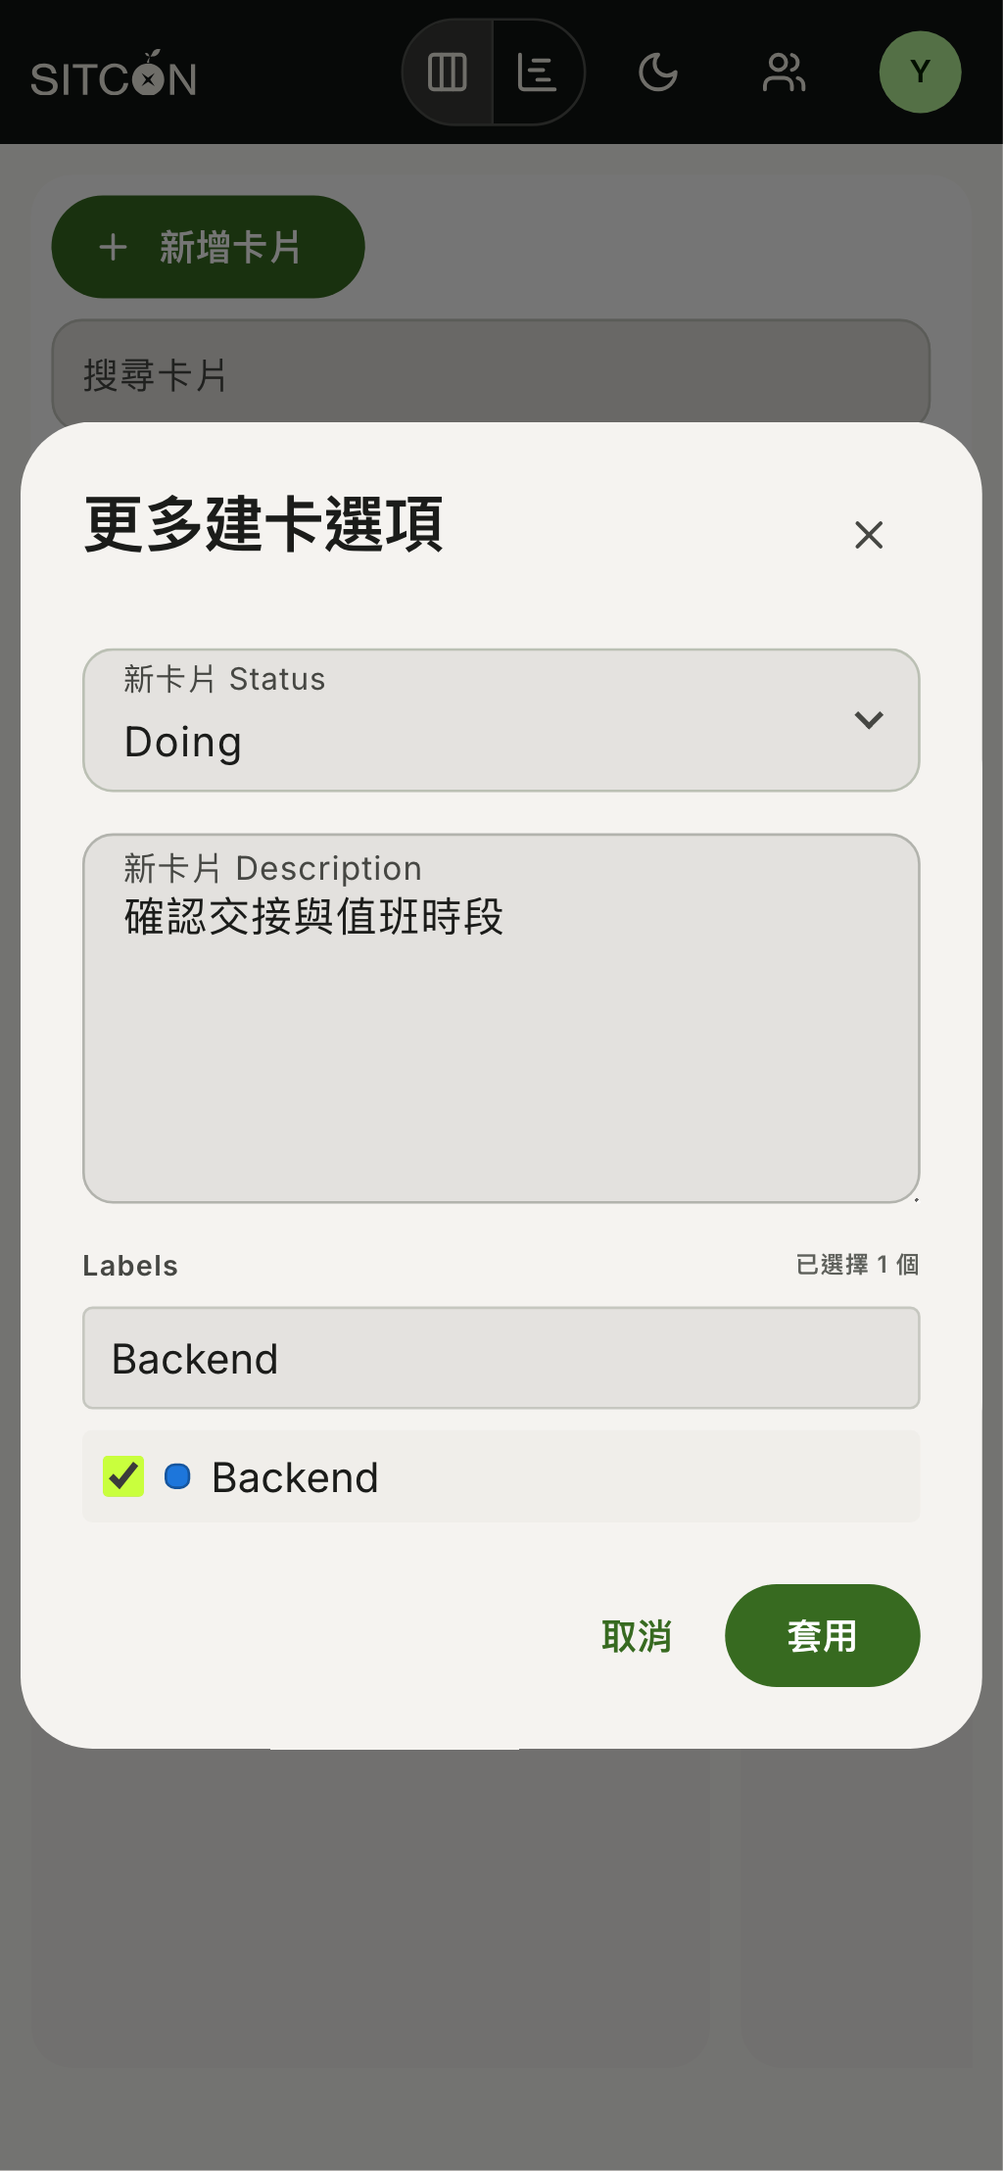
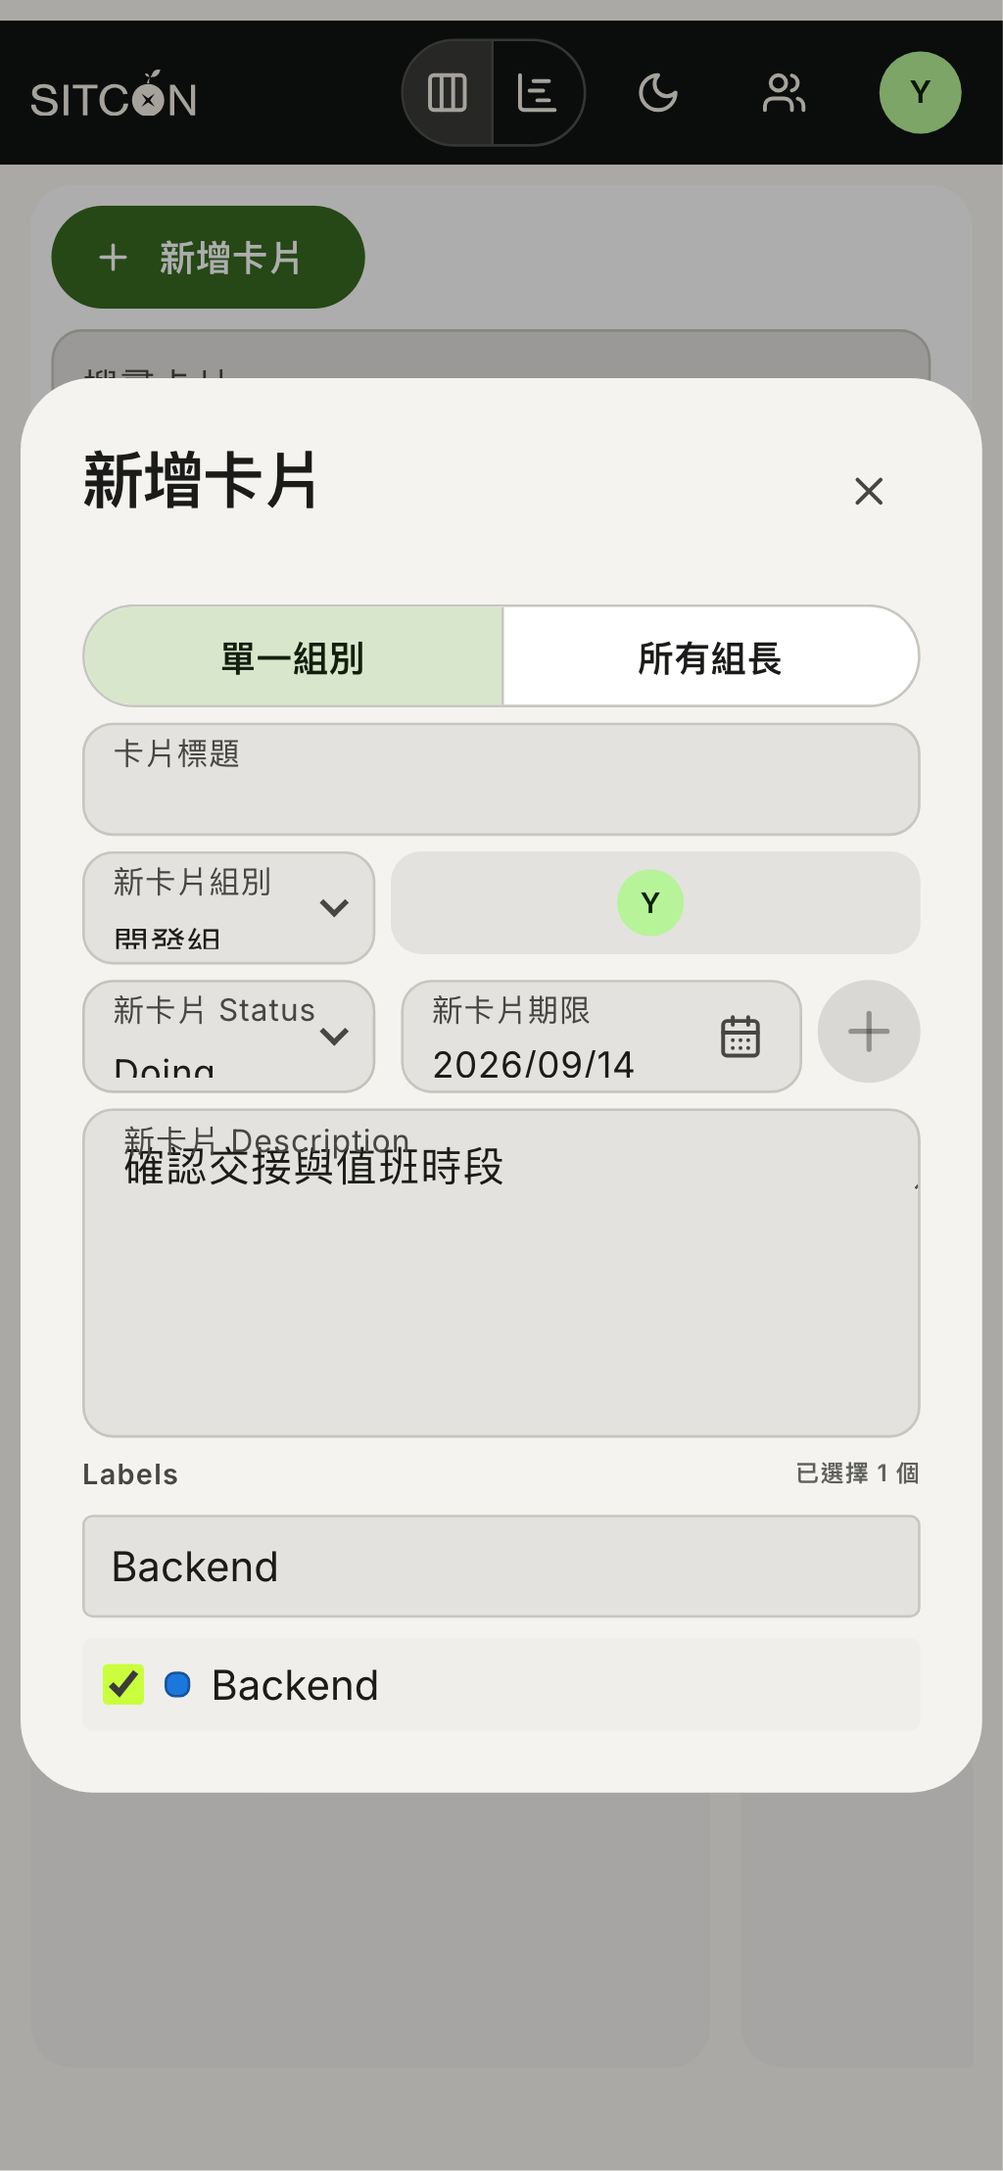
web/board: fix date layout and popup selection

diff --git a/web/e2e/board-demo.spec.ts b/web/e2e/board-demo.spec.ts
@@ -67,6 +67,18 @@ async function openDesktopFilter(page: Page, label: string) {
 	return { input, picker: page.locator(`[id="${panelId}"]`) };
 }
 
+async function expectPointerHitTarget(locator: Locator) {
+	await expect
+		.poll(() =>
+			locator.evaluate((element) => {
+				const rect = element.getBoundingClientRect();
+				const hit = document.elementFromPoint(rect.left + rect.width / 2, rect.top + rect.height / 2);
+				return hit !== null && element.contains(hit);
+			})
+		)
+		.toBe(true);
+}
+
 test.describe("SITCON Board demo visual audit", () => {
 	test.skip(!demoEnabled, "requires the explicit VITE_SITCON_DEMO server");
 
@@ -616,6 +628,75 @@ test.describe("SITCON Board demo visual audit", () => {
 		await expect(page.getByRole("dialog", { name: "新卡片詳細資料" }).getByText("Backend")).toBeVisible();
 	});
 
+	test("portalled controls stay interactive inside dialogs and drawers", async ({ page }, testInfo) => {
+		const mobile = testInfo.project.name === "mobile";
+		await page.clock.setFixedTime(new Date("2026-08-31T04:00:00Z"));
+		await page.addInitScript(() => localStorage.setItem("sitcon-board-theme", "dark"));
+		await page.setViewportSize(mobile ? { width: 320, height: 720 } : { width: 688, height: 900 });
+		await page.goto("/");
+
+		await page.getByRole("button", { name: "新增卡片" }).click();
+		const createDialog = page.getByRole("dialog", { name: "新增卡片" });
+		const dueInput = createDialog.getByRole("textbox", { name: "新卡片期限", exact: true });
+		const dateGeometry = await dueInput.evaluate((input) => {
+			const root = input.closest<HTMLElement>(".md-date-field")!;
+			return { rootWidth: root.getBoundingClientRect().width, inputWidth: input.getBoundingClientRect().width };
+		});
+		expect(dateGeometry.rootWidth).toBeGreaterThanOrEqual(mobile ? 120 : 180);
+		expect(dateGeometry.inputWidth).toBeGreaterThanOrEqual(mobile ? 80 : 130);
+
+		await chooseSelectField(page, createDialog, "新卡片 Status", "Doing");
+		await expect(createDialog.getByRole("button", { name: "新卡片 Status", exact: true })).toHaveText("Doing");
+		await expect(createDialog).toBeVisible();
+
+		const createDateTrigger = createDialog.getByRole("button", { name: "開啟新卡片期限日曆" });
+		if (mobile) await createDateTrigger.tap();
+		else await createDateTrigger.click();
+		const createPicker = page.locator(mobile ? ".md-date-picker--dialog" : ".md-date-picker--popover");
+		const createDate = createPicker.locator('[data-date="2026-09-01"]');
+		await expect(createPicker).toBeVisible();
+		await expectPointerHitTarget(createDate);
+		if (mobile) await createDate.tap();
+		else await createDate.click();
+		await expect(dueInput).toHaveValue("2026/09/01");
+		await expect(createPicker).toHaveCount(0);
+		await expect(createDialog).toBeVisible();
+
+		await createDialog.getByRole("button", { name: "選擇新卡片 Assignee" }).click();
+		const assigneeDialog = page.getByRole("dialog", { name: "選擇 Assignee" });
+		await assigneeDialog.getByRole("checkbox", { name: /沈明軒/ }).click();
+		await expect(assigneeDialog).toBeVisible();
+		await assigneeDialog.getByRole("button", { name: "完成" }).click();
+		await expect(assigneeDialog).toHaveCount(0);
+		await expect(createDialog).toBeVisible();
+		if (!mobile) await page.screenshot({ path: "../docs/assets/sitcon-board-quick-create-more-dark-desktop.png", fullPage: true });
+
+		await createDialog.getByRole("button", { name: "Close dialog" }).click();
+		await page.getByRole("heading", { name: "[開發組] 修正報名系統寄信流程" }).click();
+		const details = page.getByRole("dialog", { name: "#127 卡片詳細資料" });
+		const startInput = details.getByRole("textbox", { name: "Start", exact: true });
+		const detailDateTrigger = details.getByRole("button", { name: "開啟Start日曆" });
+		if (mobile) await detailDateTrigger.tap();
+		else await detailDateTrigger.click();
+		const detailPicker = page.locator(mobile ? ".md-date-picker--dialog" : ".md-date-picker--popover");
+		const detailDate = detailPicker.locator('[data-date="2026-09-02"]');
+		await expectPointerHitTarget(detailDate);
+		if (mobile) await detailDate.tap();
+		else await detailDate.click();
+		await expect(startInput).toHaveValue("2026/09/02");
+		await expect(details).toBeVisible();
+
+		await details.getByRole("button", { name: "編輯" }).click();
+		const description = details.getByRole("combobox", { name: "描述", exact: true });
+		await description.fill("/");
+		const autocomplete = page.getByRole("listbox", { name: "GitLab autocomplete" });
+		const suggestion = autocomplete.getByRole("option", { name: /\/close/ });
+		await expectPointerHitTarget(suggestion);
+		await suggestion.click();
+		await expect(description).toHaveValue("/close");
+		await expect(details).toBeVisible();
+	});
+
 	test("member drawer and assignee dialog are complete", async ({ page }) => {
 		await page.setViewportSize({ width: 390, height: 844 });
 		await page.goto("/");
@@ -640,13 +721,13 @@ test.describe("SITCON Board demo visual audit", () => {
 		const details = page.getByRole("dialog", { name: "#127 卡片詳細資料" });
 		await expect(details.getByRole("button", { name: "組別", exact: true })).toHaveText("開發組");
 		await expect(details.getByRole("button", { name: "狀態", exact: true })).toHaveText("To do");
-		await expect(details.getByLabel("Start")).toHaveValue("2026/07/17");
-		await expect(details.getByLabel("Due")).toHaveValue("2026/07/21");
+		await expect(details.getByRole("textbox", { name: "Start", exact: true })).toHaveValue("2026/07/17");
+		await expect(details.getByRole("textbox", { name: "Due", exact: true })).toHaveValue("2026/07/21");
 		await expect(details.getByText("Team::開發組")).toBeVisible();
 		await expect(details.getByText("Priority::High")).toBeVisible();
 		await expect(details.getByLabel("描述預覽")).toBeVisible();
 		await details.getByRole("button", { name: "編輯" }).click();
-		await details.getByRole("textbox", { name: "描述" }).fill("## 驗收條件\n\n- [ ] 補齊測試\n\n[規格](https://example.com/spec)");
+		await details.getByRole("combobox", { name: "描述", exact: true }).fill("## 驗收條件\n\n- [ ] 補齊測試\n\n[規格](https://example.com/spec)");
 		await details.getByRole("button", { name: "預覽" }).click();
 		await expect(details.getByRole("heading", { name: "驗收條件" })).toBeVisible();
 		await page.screenshot({ path: "../docs/assets/sitcon-board-details.png", fullPage: true });
@@ -659,12 +740,12 @@ test.describe("SITCON Board demo visual audit", () => {
 		// The demo title-change note carries GitLab's inline-diff HTML and must
 		// render as text, not markup.
 		await expect(details.getByText("[開發組]", { exact: true })).toBeVisible();
-		await details.getByRole("textbox", { name: "Comment" }).fill("測試與監控紀錄已補齊。");
+		await details.getByRole("combobox", { name: "Comment", exact: true }).fill("測試與監控紀錄已補齊。");
 		await details.getByRole("button", { name: "送出 Comment" }).click();
 		await expect(details.getByText("測試與監控紀錄已補齊。")).toBeVisible();
 		await details.getByRole("heading", { name: "Comment" }).scrollIntoViewIfNeeded();
 		await page.screenshot({ path: "../docs/assets/sitcon-board-tags-comments.png", fullPage: true });
-		await details.getByRole("button", { name: "儲存細節" }).click();
+		await details.getByRole("button", { name: "儲存", exact: true }).click();
 		await expect(details).toBeVisible();
 	});
 
@@ -675,18 +756,18 @@ test.describe("SITCON Board demo visual audit", () => {
 
 		const details = page.getByRole("dialog", { name: "#129 卡片詳細資料" });
 		await expect(details.getByLabel("標題")).toBeVisible();
-		await expect(details.getByRole("textbox", { name: "描述" })).toBeVisible();
-		const startDate = details.getByLabel("Start");
+		await expect(details.getByRole("combobox", { name: "描述", exact: true })).toBeVisible();
+		const startDate = details.getByRole("textbox", { name: "Start", exact: true });
 		await startDate.scrollIntoViewIfNeeded();
 		await expect(startDate).toBeInViewport();
 		await expect(startDate).toHaveValue("");
-		await expect(details.getByLabel("Due")).toHaveValue("2026/07/25");
+		await expect(details.getByRole("textbox", { name: "Due", exact: true })).toHaveValue("2026/07/25");
 		await details.getByRole("heading", { name: "Labels" }).scrollIntoViewIfNeeded();
 		await expect(details.getByLabel("新增 Label")).toBeVisible();
-		await details.getByRole("textbox", { name: "Comment" }).scrollIntoViewIfNeeded();
-		await expect(details.getByRole("textbox", { name: "Comment" })).toBeInViewport();
+		await details.getByRole("combobox", { name: "Comment", exact: true }).scrollIntoViewIfNeeded();
+		await expect(details.getByRole("combobox", { name: "Comment", exact: true })).toBeInViewport();
 		await page.screenshot({ path: "../docs/assets/sitcon-board-tags-comments-mobile.png", fullPage: true });
-		await expect(details.getByRole("button", { name: "儲存細節" })).toBeVisible();
+		await expect(details.getByRole("button", { name: "儲存", exact: true })).toHaveCount(0);
 		await page.screenshot({ path: "../docs/assets/sitcon-board-details-mobile.png", fullPage: true });
 	});
 

diff --git a/packages/ui/src/components/DateField.test.tsx b/packages/ui/src/components/DateField.test.tsx
@@ -28,6 +28,26 @@ function ControlledDateField({ onChange = () => undefined, ...props }: Partial<D
 	);
 }
 
+function DrawerFieldsHarness() {
+	const [open, setOpen] = useState(true);
+	const [status, setStatus] = useState("todo");
+	const [due, setDue] = useState<string | null>("2026-08-29");
+	return (
+		<Drawer open={open} onOpenChange={setOpen} title="Details">
+			<SelectField
+				label="Status"
+				value={status}
+				onValueChange={setStatus}
+				options={[
+					{ value: "todo", label: "To do" },
+					{ value: "doing", label: "Doing" }
+				]}
+			/>
+			<DateField label="Due" value={due} onValueChange={setDue} {...range} />
+		</Drawer>
+	);
+}
+
 describe("DateField", () => {
 	it("accepts compact, slash, and ISO typing while emitting canonical dates", async () => {
 		const user = userEvent.setup();
@@ -129,6 +149,13 @@ describe("DateField", () => {
 		expect(await screen.findByRole("dialog", { name: "期限日期選擇器" })).toHaveClass("md-date-picker--dialog");
 	});
 
+	it("places consumer layout classes on the component root", () => {
+		render(<DateField className="consumer-layout" label="Due" value="2026-08-29" onValueChange={() => undefined} {...range} />);
+		const input = screen.getByRole("textbox", { name: "Due" });
+		expect(input.closest(".md-date-field")).toHaveClass("consumer-layout");
+		expect(input.closest(".md-field")).not.toHaveClass("consumer-layout");
+	});
+
 	it("has no accessibility violations in field and compact variants", async () => {
 		const { container } = render(
 			<>
@@ -139,25 +166,21 @@ describe("DateField", () => {
 		expect((await axe(container)).violations).toEqual([]);
 	});
 
-	it("coexists with a portalled select inside a drawer", async () => {
+	it("keeps its parent drawer open while portalled fields are selected", async () => {
 		const user = userEvent.setup();
-		render(
-			<Drawer open onOpenChange={() => undefined} title="Details">
-				<SelectField
-					label="Status"
-					value="todo"
-					options={[
-						{ value: "todo", label: "To do" },
-						{ value: "doing", label: "Doing" }
-					]}
-				/>
-				<DateField label="Due" value="2026-08-29" onValueChange={() => undefined} {...range} />
-			</Drawer>
-		);
+		render(<DrawerFieldsHarness />);
 		await user.click(screen.getByRole("button", { name: "Status" }));
-		expect(await screen.findByRole("menu", { name: "Status選項" })).toBeVisible();
+		expect(await screen.findByRole("menu", { name: "Status選項" })).toHaveClass("md-portalled-surface");
 		await user.click(screen.getByRole("menuitemcheckbox", { name: "Doing" }));
 		expect(screen.queryByRole("menu", { name: "Status選項" })).not.toBeInTheDocument();
+		expect(screen.getByRole("button", { name: "Status" })).toHaveTextContent("Doing");
+		expect(screen.getByRole("dialog", { name: "Details" })).toBeVisible();
+
+		await user.click(screen.getByRole("button", { name: "開啟Due日曆" }));
+		expect(await screen.findByRole("dialog", { name: "Due日期選擇器" })).toHaveClass("md-portalled-surface");
+		fireEvent.click(screen.getByRole("button", { name: /2026年9月1日/ }));
+		expect(screen.getByRole("textbox", { name: "Due" })).toHaveValue("2026/09/01");
+		expect(screen.queryByRole("dialog", { name: "Due日期選擇器" })).not.toBeInTheDocument();
 		expect(screen.getByRole("dialog", { name: "Details" })).toBeVisible();
 	});
 });

diff --git a/web/e2e/date-picker.spec.ts b/web/e2e/date-picker.spec.ts
@@ -17,11 +17,24 @@ async function firstCardDateField(board: Locator) {
 	};
 }
 
+async function expectPointerHitTarget(locator: Locator) {
+	await expect
+		.poll(() =>
+			locator.evaluate((element) => {
+				const rect = element.getBoundingClientRect();
+				const hit = document.elementFromPoint(rect.left + rect.width / 2, rect.top + rect.height / 2);
+				return hit !== null && element.contains(hit);
+			})
+		)
+		.toBe(true);
+}
+
 test.describe("product date picker visual regression", () => {
 	test.skip(!demoEnabled, "requires the explicit VITE_SITCON_DEMO server");
 
 	test("desktop calendar stays anchored and the card footer stays aligned", async ({ page }, testInfo) => {
 		test.skip(testInfo.project.name === "mobile", "desktop geometry is covered in Chromium");
+		await page.clock.setFixedTime(new Date("2026-08-31T04:00:00Z"));
 		await page.addInitScript(() => localStorage.setItem("sitcon-board-theme", "dark"));
 		await page.setViewportSize({ width: 1440, height: 900 });
 		await page.goto("/");
@@ -77,10 +90,17 @@ test.describe("product date picker visual regression", () => {
 		await expect.poll(() => scroller.evaluate((element) => element.scrollTop)).toBeGreaterThan(calendarScrollBefore);
 		await expect(picker.getByRole("heading", { name: "2026年9月" })).toBeVisible();
 		expect(await page.evaluate(() => window.scrollY)).toBe(pageScrollBefore);
+
+		const nextDate = picker.locator('[data-date="2026-09-01"]');
+		await expectPointerHitTarget(nextDate);
+		await nextDate.click();
+		await expect(input).toHaveValue("2026/09/01");
+		await expect(picker).toHaveCount(0);
 	});
 
 	test("narrow calendar is centered and keeps touch-sized dates", async ({ page }, testInfo) => {
 		test.skip(testInfo.project.name !== "mobile", "narrow geometry is covered by the mobile project");
+		await page.clock.setFixedTime(new Date("2026-08-31T04:00:00Z"));
 		await page.addInitScript(() => localStorage.setItem("sitcon-board-theme", "dark"));
 		await page.setViewportSize({ width: 390, height: 844 });
 		await page.goto("/");
@@ -88,7 +108,7 @@ test.describe("product date picker visual regression", () => {
 		const { input, trigger } = await firstCardDateField(board);
 		await expect(input).toHaveValue(/^\d{4}\/\d{2}\/\d{2}$/);
 
-		await trigger.click();
+		await trigger.tap();
 		const picker = page.getByRole("dialog", { name: /日期選擇器/ });
 		await expect(picker).toHaveClass(/md-date-picker--dialog/);
 		const geometry = await picker.evaluate((element) => {
@@ -109,5 +129,10 @@ test.describe("product date picker visual regression", () => {
 		expect(geometry.daySize).toBeGreaterThanOrEqual(44);
 
 		await page.screenshot({ path: docsAsset("sitcon-board-date-picker-dark-mobile.png") });
+		const nextDate = picker.locator('[data-date="2026-09-01"]');
+		await expectPointerHitTarget(nextDate);
+		await nextDate.tap();
+		await expect(input).toHaveValue("2026/09/01");
+		await expect(picker).toHaveCount(0);
 	});
 });

diff --git a/packages/ui/src/components/DateField.tsx b/packages/ui/src/components/DateField.tsx
@@ -458,7 +458,7 @@ export function DateField({
 			<DialogPrimitive.Trigger asChild>{trigger}</DialogPrimitive.Trigger>
 			<DialogPrimitive.Portal>
 				<DialogPrimitive.Overlay className="md-overlay md-date-picker__overlay" />
-				<DialogPrimitive.Content className="md-date-picker md-date-picker--dialog" onOpenAutoFocus={focusCalendarOnOpen}>
+				<DialogPrimitive.Content className="md-date-picker md-date-picker--dialog md-portalled-surface" onOpenAutoFocus={focusCalendarOnOpen}>
 					<DialogPrimitive.Title className="md-sr-only">{label}日期選擇器</DialogPrimitive.Title>
 					<DialogPrimitive.Description className="md-sr-only">可使用方向鍵選擇日期，或使用下方按鈕清除日期與選擇今天。</DialogPrimitive.Description>
 					{calendar}
@@ -470,7 +470,7 @@ export function DateField({
 			<PopoverPrimitive.Trigger asChild>{trigger}</PopoverPrimitive.Trigger>
 			<PopoverPrimitive.Portal>
 				<PopoverPrimitive.Content
-					className="md-date-picker md-date-picker--popover"
+					className="md-date-picker md-date-picker--popover md-portalled-surface"
 					align="end"
 					sideOffset={4}
 					collisionPadding={8}
@@ -528,17 +528,8 @@ export function DateField({
 	}
 
 	return (
-		<div className="md-date-field" onBlur={handleControlBlur}>
-			<FieldFrame
-				id={id}
-				label={label}
-				description={description}
-				error={inputError}
-				optional={optional}
-				dense={dense}
-				floating
-				className={classNames("md-field--date", className)}
-			>
+		<div className={classNames("md-date-field", className)} onBlur={handleControlBlur}>
+			<FieldFrame id={id} label={label} description={description} error={inputError} optional={optional} dense={dense} floating className="md-field--date">
 				{input}
 			</FieldFrame>
 		</div>

diff --git a/packages/ui/src/components/Dialog.tsx b/packages/ui/src/components/Dialog.tsx
@@ -30,7 +30,7 @@ export function Dialog({ open, onOpenChange, title, description, children, foote
 			{trigger ? <DialogPrimitive.Trigger asChild>{trigger}</DialogPrimitive.Trigger> : null}
 			<DialogPrimitive.Portal>
 				<DialogPrimitive.Overlay className="md-overlay" />
-				<DialogPrimitive.Content className="md-dialog">
+				<DialogPrimitive.Content className="md-dialog md-portalled-surface">
 					<header className="md-dialog__header">
 						<DialogHeader title={title} description={description} />
 						<DialogPrimitive.Close asChild>
@@ -53,7 +53,7 @@ export function Drawer({ open, onOpenChange, title, description, children, foote
 			{trigger ? <DialogPrimitive.Trigger asChild>{trigger}</DialogPrimitive.Trigger> : null}
 			<DialogPrimitive.Portal>
 				<DialogPrimitive.Overlay className="md-overlay" />
-				<DialogPrimitive.Content className="md-drawer">
+				<DialogPrimitive.Content className="md-drawer md-portalled-surface">
 					<header className="md-dialog__header">
 						<DialogHeader title={title} description={description} />
 						<DialogPrimitive.Close asChild>
@@ -96,7 +96,7 @@ export function ConfirmDialog({
 		<AlertDialogPrimitive.Root open={open} onOpenChange={onOpenChange}>
 			<AlertDialogPrimitive.Portal>
 				<AlertDialogPrimitive.Overlay className="md-overlay" />
-				<AlertDialogPrimitive.Content className="md-dialog md-alert-dialog">
+				<AlertDialogPrimitive.Content className="md-dialog md-alert-dialog md-portalled-surface">
 					<div className="md-dialog__header">
 						<div>
 							<AlertDialogPrimitive.Title className="md-dialog__title">{title}</AlertDialogPrimitive.Title>

diff --git a/packages/ui/src/components/Menu.tsx b/packages/ui/src/components/Menu.tsx
@@ -27,7 +27,13 @@ export function Menu({ trigger, children, label, align = "start", open, onOpenCh
 		...(onOpenChange ? { onOpenChange } : {})
 	};
 	const content = (
-		<DropdownMenuPrimitive.Content className={classNames("md-menu", className)} align={align} sideOffset={4} aria-label={label} collisionPadding={8}>
+		<DropdownMenuPrimitive.Content
+			className={classNames("md-menu", "md-portalled-surface", className)}
+			align={align}
+			sideOffset={4}
+			aria-label={label}
+			collisionPadding={8}
+		>
 			{children}
 		</DropdownMenuPrimitive.Content>
 	);

diff --git a/packages/ui/src/styles/md3.css b/packages/ui/src/styles/md3.css
@@ -314,6 +314,13 @@
 
 /* --- Menu ----------------------------------------------------------------- */
 
+/* Modal dialogs make document.body inert while they are open. Interactive
+ * surfaces portalled beside that dialog must explicitly opt back into pointer
+ * events or taps fall through to the dialog content rendered behind them. */
+.md-portalled-surface {
+	pointer-events: auto;
+}
+
 .md-menu {
 	z-index: 100;
 	min-width: 7rem;

diff --git a/web/src/features/board/GitLabAutocompleteTextarea.tsx b/web/src/features/board/GitLabAutocompleteTextarea.tsx
@@ -183,7 +183,7 @@ export function GitLabAutocompleteTextarea({
 				? createPortal(
 						<div
 							id={menuId}
-							className={`md-menu ${styles.menu}`}
+							className={`md-menu md-portalled-surface ${styles.menu}`}
 							role="listbox"
 							aria-label="GitLab autocomplete"
 							style={{
